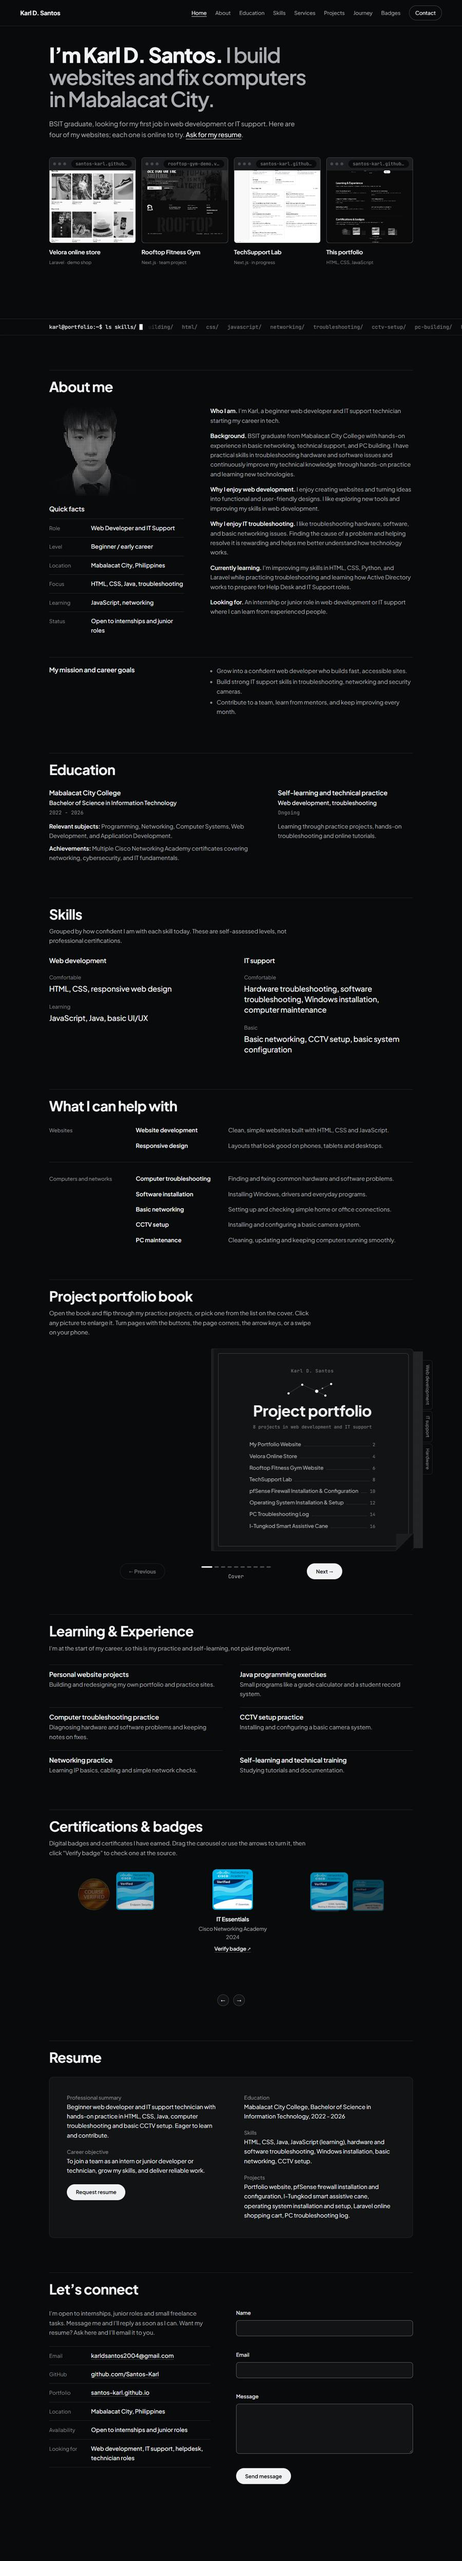
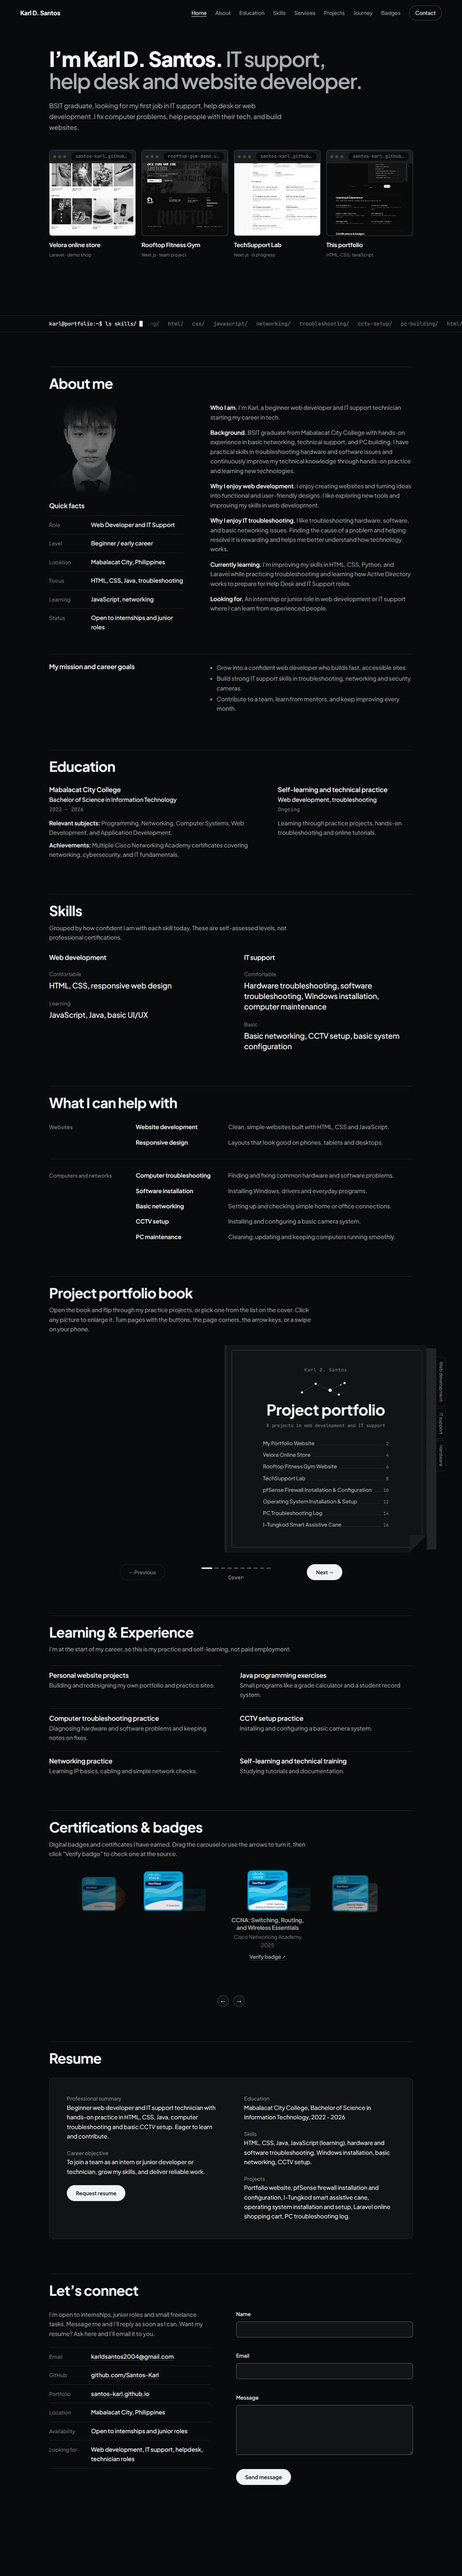
Shorten the top paragraph and retake the portfolio picture in the book
The lead now ends after "build websites." The scrolling picture on book
page 2 is a new full-page shot of the site with the current top section.

diff --git a/index.html b/index.html
@@ -64,7 +64,7 @@
         <section class="top" id="home" aria-label="Introduction">
             <div>
                 <h1 class="in-1"><b>I’m Karl D. Santos.</b> <span>IT support, help desk and website developer.</span></h1>
-                <p class="lead in-2">BSIT graduate, looking for my first job in IT support, help desk or web development. I fix computer problems, help people with their tech, and build websites. Here are four of them, each one online to try. <a href="#contact" data-request="resume">Ask for my resume</a>.</p>
+                <p class="lead in-2">BSIT graduate, looking for my first job in IT support, help desk or web development. I fix computer problems, help people with their tech, and build websites.</p>
             </div>
             <div class="strip">
                 <a href="#projects" data-book="2"><div class="win"><div class="bar" aria-hidden="true"><i></i><i></i><i></i><span>santos-karl.github.io/velora</span></div><div class="pane"><img src="images/sites/velora-home.jpg" alt="Velora home page"></div></div><b>Velora online store</b><small>Laravel · demo shop</small></a>
